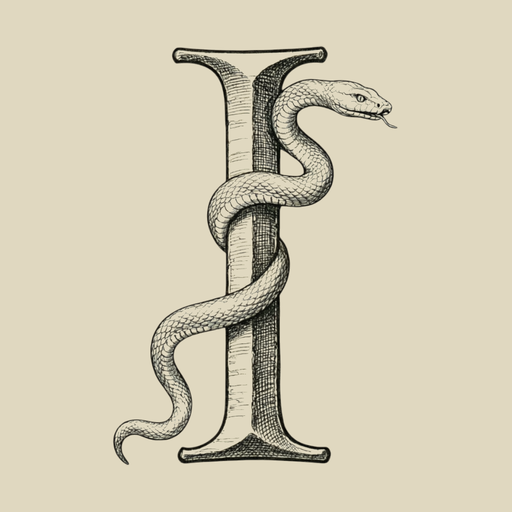
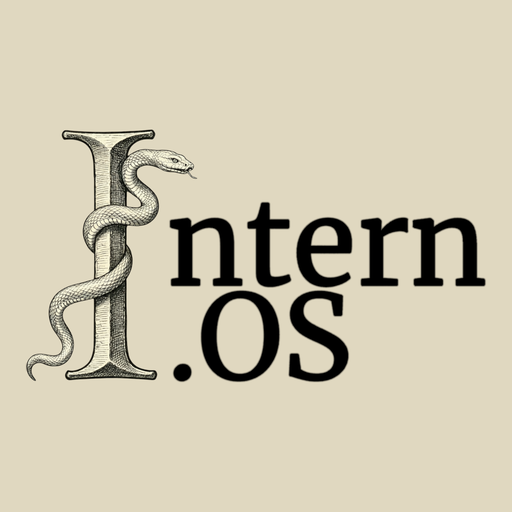
v1.5.1: wordmark grande en Home + estatua Esculapio como bg + iconos centrados
Tres elementos visuales que aporta el usuario, integrados en la app:

- wordmark.png (1600×922 transparente): reemplaza el wordmark previo.
  Versión más limpia y de mayor resolución; se ve grande en el splash y
  en el hero del Home (width: min(86vw, 520px)).

- icon-{512,192}.png + favicon-64.png: regenerados desde el cuadrado del
  usuario con bbox detection y CENTRADO geométrico (contenido al 90%
  del canvas, simétrico). icon-maskable-512.png al 62% para no comerse
  el texto en launchers Android con máscara circular agresiva.

- statue-bg.png (580×720, knock-out cream → transparente, líneas tintadas
  con #1a1208): nueva pieza decorativa. Aplicada como background del
  .home__hero vía ::before con opacity 0.07, posicionada a la derecha
  con máscara linear-gradient que la desvanece hacia el centro. No
  interfiere con la legibilidad del wordmark/texto.

Adicional: Home hero ahora centra el wordmark y el bienvenida (era
flex-row alineado a la izquierda) — composición editorial. Añadido
statue-bg.png al precache del service worker.

Changed region(s): [[0.0312, 0.0938, 0.9688, 0.9062]]

diff --git a/styles/app.css b/styles/app.css
@@ -116,9 +116,39 @@ p { margin: 0 0 8px; }
 .card > h2 + p.muted { margin-top: 2px; font-size: 13px; }
 
 /* === Home === */
-.home__hero { padding: 4px 2px 14px; }
-.home__hero-titulo { display: flex; align-items: center; gap: 12px; flex-wrap: wrap; }
-.home__logo { height: 64px; width: auto; display: block; }
+/* Hero centrado con estatua de Esculapio como background sutil */
+.home__hero {
+  padding: 8px 2px 18px;
+  position: relative;
+  isolation: isolate;
+}
+.home__hero::before {
+  content: "";
+  position: absolute;
+  inset: 0;
+  background-image: url("../assets/statue-bg.png");
+  background-repeat: no-repeat;
+  background-position: right -20px center;
+  background-size: auto 110%;
+  opacity: 0.07;
+  pointer-events: none;
+  z-index: -1;
+  mask-image: linear-gradient(to left, #000 30%, transparent 80%);
+  -webkit-mask-image: linear-gradient(to left, #000 30%, transparent 80%);
+}
+.home__hero-titulo {
+  display: flex;
+  flex-direction: column;
+  align-items: center;
+  gap: 10px;
+  text-align: center;
+}
+.home__logo {
+  height: auto;
+  width: min(86vw, 520px);
+  display: block;
+  margin: 6px auto 2px;
+}
 .home__version {
   font-size: 11px; color: var(--muted); border: 1px solid var(--line);
   padding: 3px 9px; border-radius: 999px;
@@ -127,8 +157,9 @@ p { margin: 0 0 8px; }
 }
 
 .home__bienvenida {
-  margin: 16px 0 12px; font-size: 15px; line-height: 1.6;
+  margin: 16px auto 12px; font-size: 15px; line-height: 1.6;
   color: var(--txt-2); max-width: 62ch;
+  text-align: center;
 }
 
 /* Instructivo (acordeón nativo) */

diff --git a/service-worker.js b/service-worker.js
@@ -12,6 +12,7 @@ const ASSETS = [
   "./manifest.webmanifest",
   "./styles/app.css",
   "./assets/wordmark.png",
+  "./assets/statue-bg.png",
   "./assets/icon-192.png",
   "./assets/icon-512.png",
   "./assets/icon-maskable-512.png",
